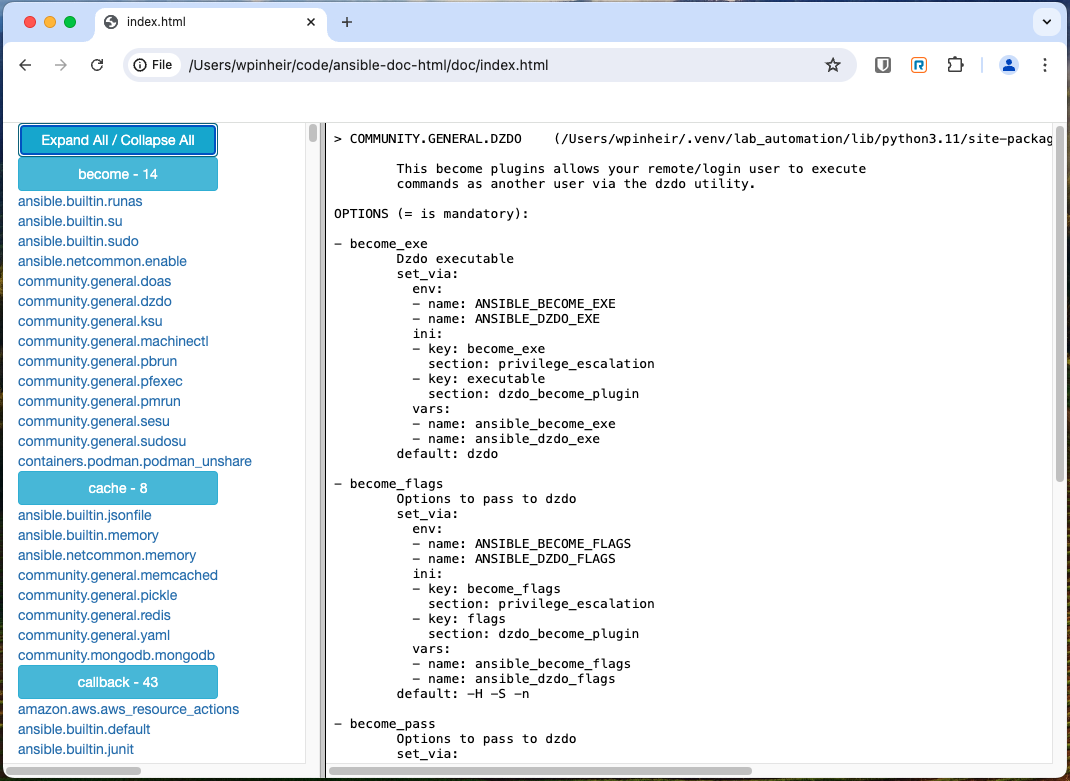
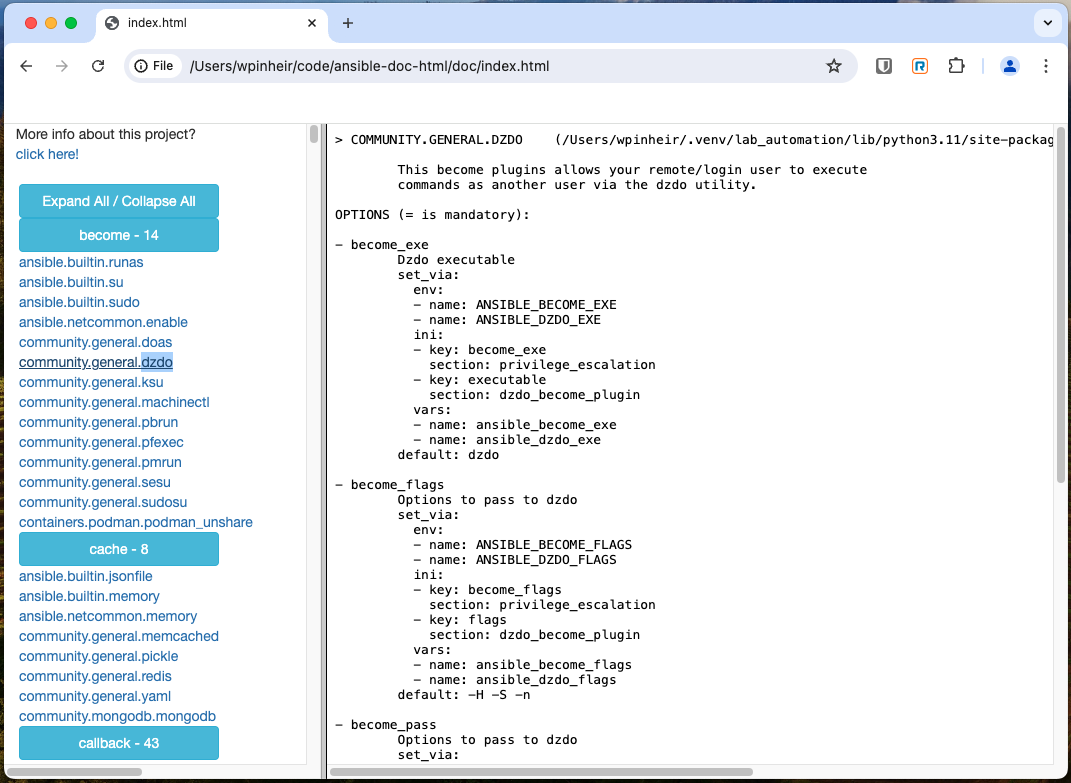
[ENHANCEMENT] link added on the main menu
* link added on the main menu

diff --git a/README.md b/README.md
@@ -8,16 +8,26 @@ Once I'm a good friend, I created this script, that will check all the types tha
 
 Just download the bash, or clone the repo, as you wish, after that, you can simply execute it
 ```
-./ansible-doc-html.sh
+$ wget https://raw.githubusercontent.com/waldirio/ansible-doc-html/main/ansible-doc-html.sh
+$ chmod +x ansible-doc-html.sh
+$ ./ansible-doc-html.sh
 ```
 
-A directory named `doc` will be created, with a bunch of files, but the one that you need to open, is `index.html`. From there, you will be able to navigate, check all the documentation, search, copy and paste.
+A directory named `doc` will be created, with a bunch of files, but the one that you need to open is `index.html`. From there, you will be able to navigate, check all the documentation, search, copy and paste.
+
+### The main page
 
 ![main page](assets/web_main.png)
 
+### Expanding a single type, in this case, become
+
 ![become sub menu](assets/become_sub_menu.png)
 
+### Searching by a specific word, in this case, dzdo
+
 ![dzdo module](assets/dzdo.png)
+
+### Expanding all of them in a single click, then you can proceed with CTRL+F or COMMAND+F
 
 ![all expanded](assets/all_expanded.png)
 
